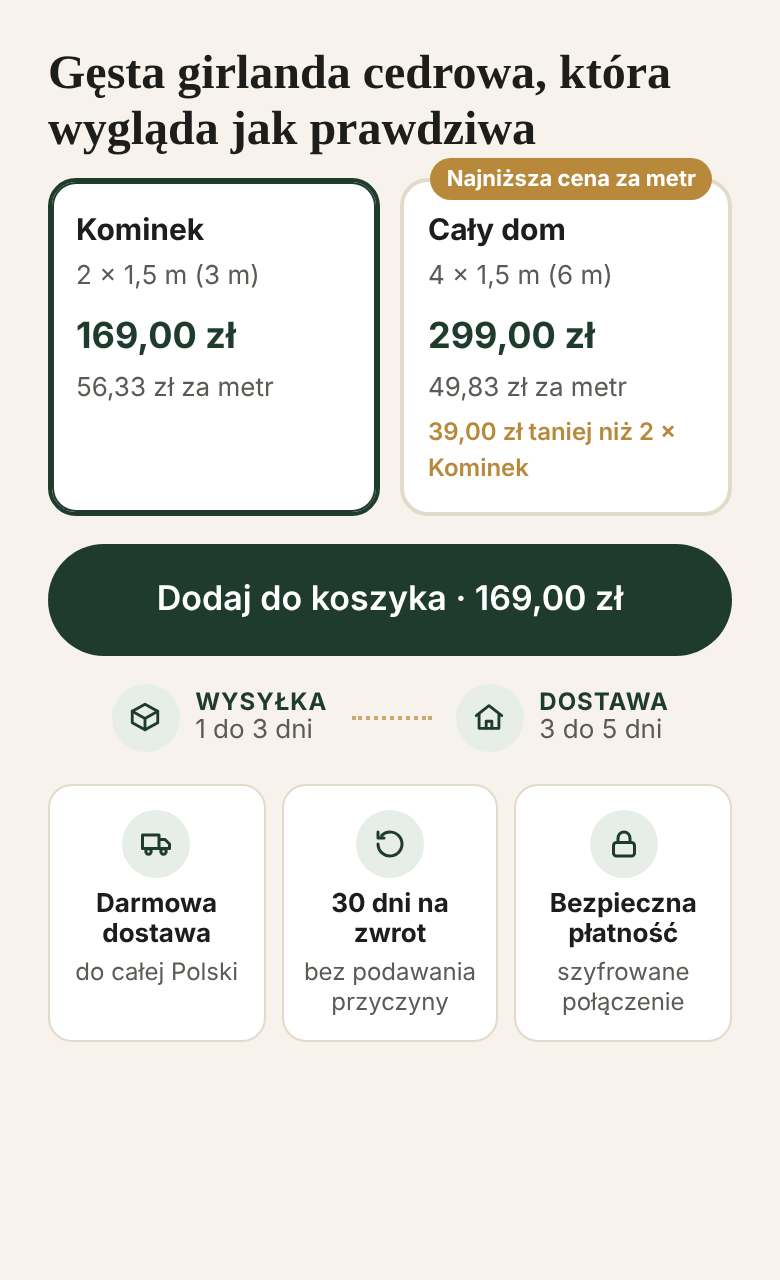
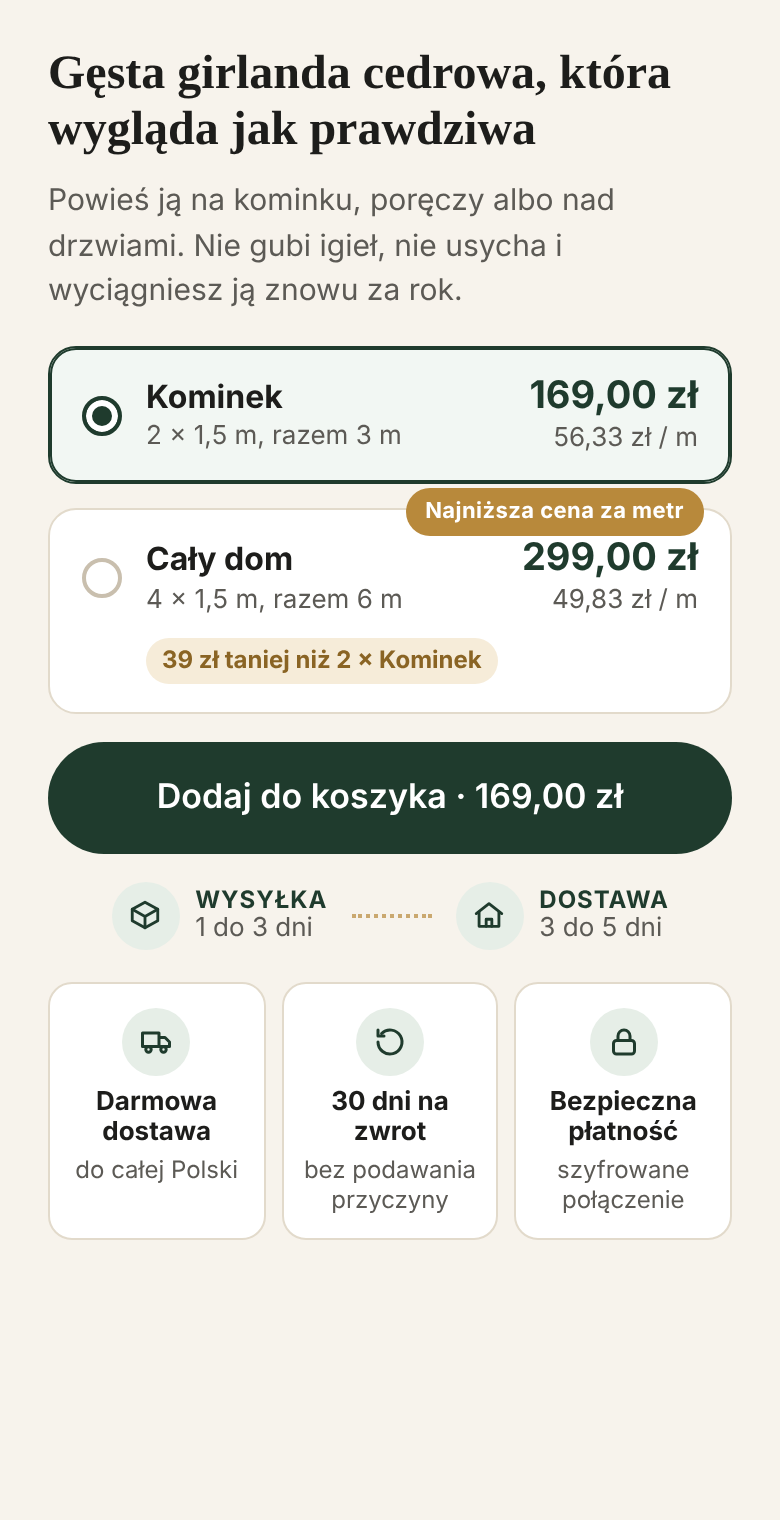
Hero: warianty jako wiersze z polem wyboru, opis pod nagłówkiem
Claude-Session: https://claude.ai/code/session_01CMJoUzqGWfUYkBAZmiVtcR

diff --git a/sklep/theme/assets/lk.css b/sklep/theme/assets/lk.css
@@ -74,7 +74,6 @@ body:has(.lk-root) .content-for-layout { padding: 0 !important; }
 .lk-brand img { height: 34px; width: auto; }
 .lk-brand__name { font: 600 20px/1 var(--lk-serif); color: var(--lk-green); text-decoration: none; }
 .lk-hero__grid { display: grid; gap: 12px; }
-.lk-buy__after { margin-top: 14px; }
 .lk-gallery { position: relative; margin: 0 -16px; }
 .lk-gallery__track {
   display: flex; gap: 8px; overflow-x: auto; scroll-snap-type: x mandatory;
@@ -88,20 +87,28 @@ body:has(.lk-root) .content-for-layout { padding: 0 !important; }
 .lk-dots button[aria-current="true"] { background: var(--lk-green); }
 
 .lk-buy__price-note { font-size: 14px; color: var(--lk-muted); margin-bottom: 14px; }
-.lk-opts { display: grid; grid-template-columns: 1fr 1fr; gap: 10px; margin: 0 0 14px; padding: 0; border: 0; }
+.lk-sub { font-size: 15px; line-height: 1.5; color: var(--lk-muted); margin: 0 0 16px; max-width: 46ch; }
+.lk-opts { display: grid; grid-template-columns: 1fr; gap: 12px; margin: 0 0 14px; padding: 0; border: 0; min-width: 0; }
 .lk-opt { position: relative; display: block; cursor: pointer; }
 .lk-opt input { position: absolute; opacity: 0; pointer-events: none; }
 .lk-opt__body {
-  display: flex; flex-direction: column; gap: 2px; height: 100%;
-  padding: 12px; border: 2px solid var(--lk-line); border-radius: var(--lk-radius); background: var(--lk-white);
+  display: flex; flex-wrap: wrap; align-items: center; gap: 4px 12px;
+  padding: 14px 16px; border: 1.5px solid var(--lk-line); border-radius: var(--lk-radius); background: var(--lk-white);
+  transition: border-color .15s ease, background .15s ease, box-shadow .15s ease;
 }
-.lk-opt input:checked + .lk-opt__body { border-color: var(--lk-green); box-shadow: 0 0 0 1px var(--lk-green) inset; }
+.lk-opt:hover .lk-opt__body { border-color: #c9bfae; }
+.lk-opt input:checked + .lk-opt__body { border-color: var(--lk-green); background: #f2f7f3; box-shadow: 0 0 0 1px var(--lk-green) inset; }
 .lk-opt input:focus-visible + .lk-opt__body { outline: 3px solid var(--lk-gold); outline-offset: 2px; }
-.lk-opt__badge { position: absolute; top: -10px; right: 10px; background: var(--lk-gold); color: var(--lk-white); font-size: 11px; font-weight: 700; padding: 2px 8px; border-radius: 999px; }
-.lk-opt__name { font-weight: 700; font-size: 15px; }
-.lk-opt__meta { font-size: 13px; color: var(--lk-muted); }
-.lk-opt__price { font-weight: 700; font-size: 18px; color: var(--lk-green); margin-top: 4px; }
-.lk-opt__save { font-size: 12px; color: var(--lk-gold); font-weight: 600; }
+.lk-opt__radio { flex: 0 0 20px; width: 20px; height: 20px; border-radius: 50%; border: 2px solid #c9bfae; background: var(--lk-white); display: block !important; transition: all .15s ease; }
+.lk-opt input:checked + .lk-opt__body .lk-opt__radio { border-color: var(--lk-green); background: var(--lk-green); box-shadow: inset 0 0 0 3px var(--lk-white); }
+.lk-opt__main { flex: 1 1 auto; min-width: 0; display: flex; flex-direction: column; gap: 2px; }
+.lk-opt__side { flex: 0 0 auto; display: flex; flex-direction: column; align-items: flex-end; gap: 2px; text-align: right; }
+.lk-opt__badge { position: absolute; top: -10px; right: 14px; background: var(--lk-gold); color: var(--lk-white); font-size: 11px; font-weight: 700; letter-spacing: .02em; padding: 3px 10px; border-radius: 999px; }
+.lk-opt__name { font-weight: 700; font-size: 16px; line-height: 1.2; color: var(--lk-ink); }
+.lk-opt__meta { font-size: 13px; line-height: 1.3; color: var(--lk-muted); }
+.lk-opt__price { font-weight: 700; font-size: 19px; line-height: 1.1; color: var(--lk-green); white-space: nowrap; }
+.lk-opt__break { flex-basis: 100%; height: 0; display: block !important; }
+.lk-opt__save { margin: 2px 0 0 32px; font-size: 12px; font-weight: 700; color: #8a6424; background: #f6ecd9; padding: 2px 8px; border-radius: 999px; }
 .lk-perks { display: grid; grid-template-columns: repeat(3, 1fr); gap: 8px; margin: 16px 0 0; padding: 0; list-style: none; }
 .lk-perk { display: flex; flex-direction: column; align-items: center; gap: 2px; padding: 12px 6px; text-align: center; background: var(--lk-white); border: 1px solid var(--lk-line); border-radius: 12px; }
 .lk-perk__ico { width: 34px; height: 34px; margin-bottom: 4px; border-radius: 50%; background: #e6eee7; color: var(--lk-green); display: flex !important; align-items: center; justify-content: center; }
